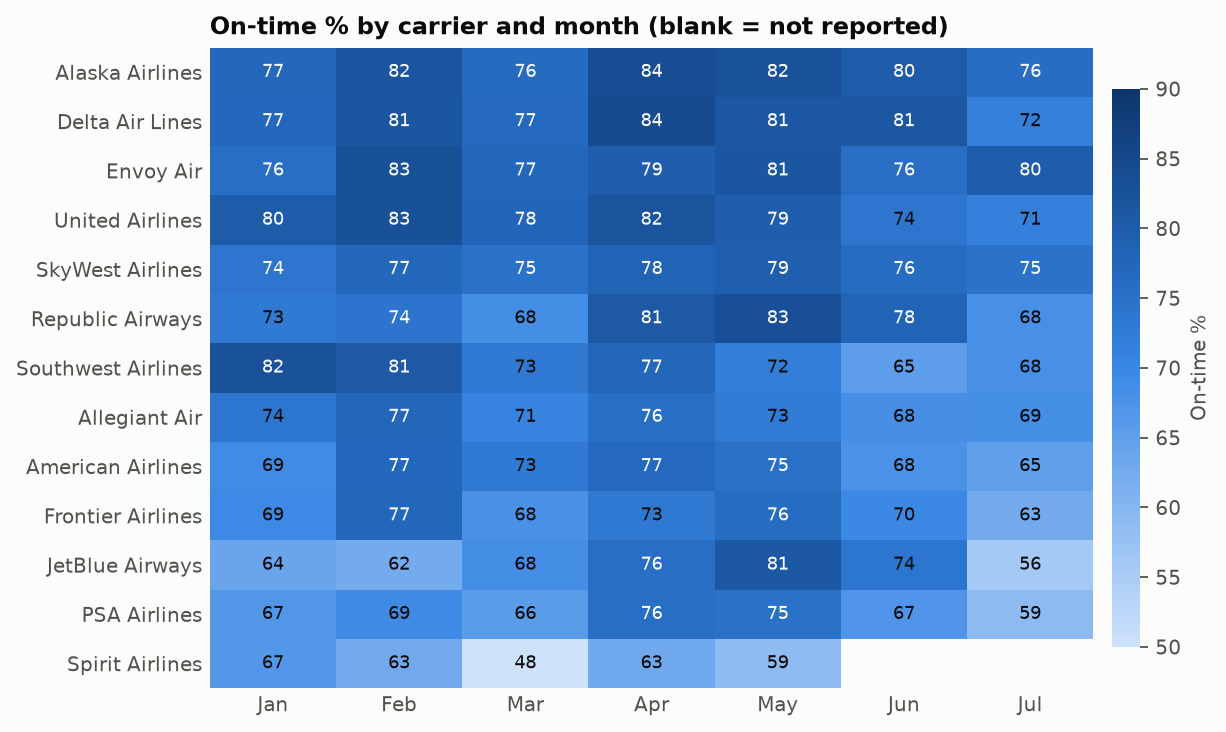
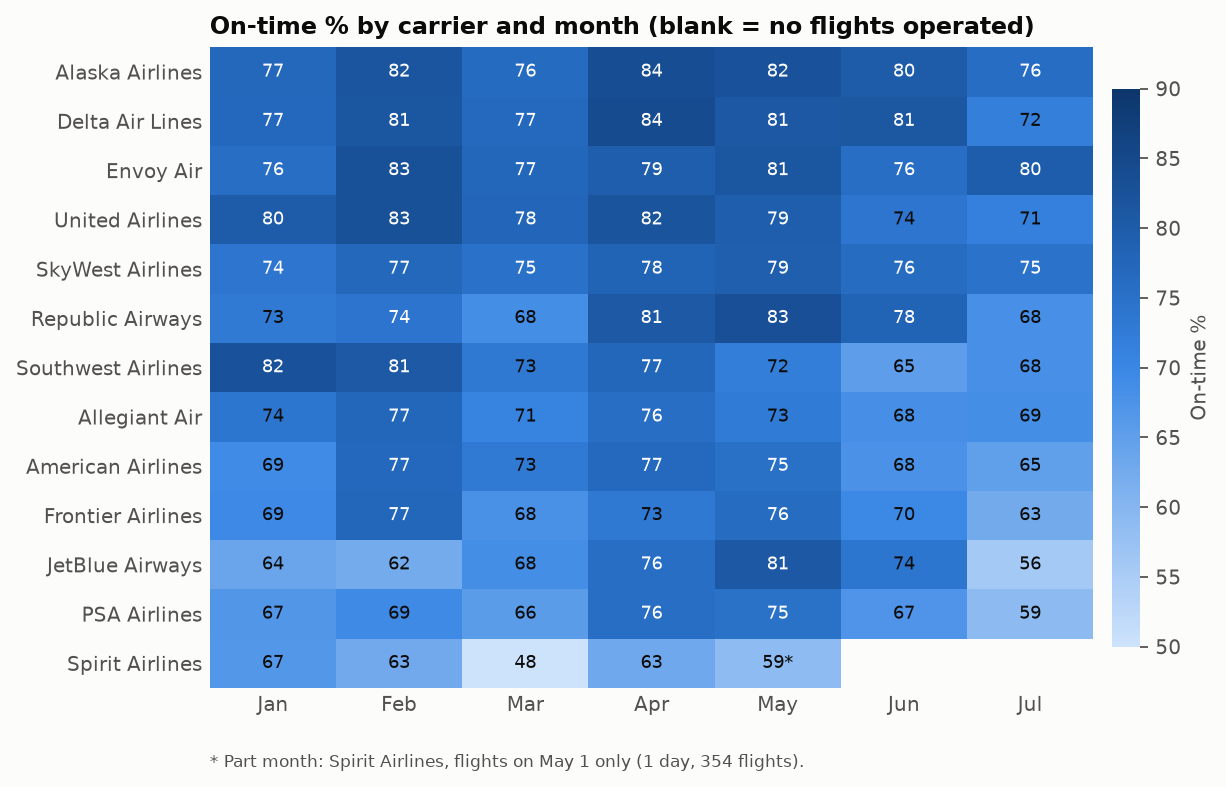
Mark part-month cells in the carrier heatmap
Blank cells now read "no flights operated". A carrier-month with flights
on fewer than half the month's days gets an asterisk and a footnote:
Spirit Airlines' May figure covers May 1 only, because Spirit ceased
operations on May 2, 2026. The month table now records days with
flights and the first and last flight date.

diff --git a/flightpipe/insights.py b/flightpipe/insights.py
@@ -90,6 +90,11 @@ class Insights:
         t.to_csv(self.tables / "on_time_by_carrier_month.csv", index=False)
         m = t.pivot(index="carrier_name", columns="month", values="on_time_pct")
         m = m.loc[m.mean(axis=1).sort_values(ascending=False).index]
+        # A carrier-month covering under half the month's days (e.g. an airline that stopped
+        # flying) is marked with * so it isn't read as a full month.
+        days_in_month = t.groupby("month").days_with_flights.transform("max")
+        part = t[t.days_with_flights < 0.5 * days_in_month]
+        partial = {(r.carrier_name, r.month) for r in part.itertuples()}
         fig, ax = plt.subplots(figsize=(7.5, 5.2))
         im = ax.imshow(m.values, cmap=LinearSegmentedColormap.from_list("blues", SEQ_BLUES), aspect="auto", vmin=50, vmax=90)
         ax.set_xticks(range(m.shape[1]), [MONTHS[c] for c in m.columns])
@@ -98,14 +103,24 @@ class Insights:
             for j in range(m.shape[1]):
                 v = m.values[i, j]
                 if not math.isnan(v):
-                    ax.text(j, i, f"{v:.0f}", ha="center", va="center", fontsize=8, color="white" if v >= 74 else INK)
+                    star = "*" if (m.index[i], m.columns[j]) in partial else ""
+                    ax.text(j, i, f"{v:.0f}{star}", ha="center", va="center", fontsize=8,
+                            color="white" if v >= 74 else INK)
         for s in ax.spines.values():
             s.set_visible(False)
         ax.tick_params(length=0)
         cb = fig.colorbar(im, ax=ax, fraction=0.03, pad=0.02)
         cb.outline.set_visible(False)
         cb.set_label("On-time %", color=INK_2)
-        ax.set_title("On-time % by carrier and month (blank = not reported)", loc="left")
+        ax.set_title("On-time % by carrier and month (blank = no flights operated)", loc="left")
+        if len(part):
+            def span(r):
+                d0, d1 = pd.Timestamp(r.first_date), pd.Timestamp(r.last_date)
+                return f"{d0:%b} {d0.day}" + ("" if d0 == d1 else f" to {d1.day}")
+            notes = "; ".join(f"{r.carrier_name}, flights on {span(r)} only "
+                              f"({r.days_with_flights} day{'s' if r.days_with_flights > 1 else ''}, "
+                              f"{r.scheduled_flights:,} flights)" for r in part.itertuples())
+            fig.text(0.125, 0.015, f"* Part month: {notes}.", fontsize=7.5, color=INK_2, ha="left")
         self.save(fig, "02_on_time_heatmap.png")
         return t
 

diff --git a/outputs/run_report.md b/outputs/run_report.md
@@ -1,6 +1,6 @@
-# Run report: 20261107T190137Z
+# Run report: 20261107T191628Z
 
-Status: **success**. Started 2026-11-07 19:01 UTC, 226 seconds.
+Status: **success**. Started 2026-11-07 19:16 UTC, 93 seconds.
 
 ## 1. Load
 
@@ -8,13 +8,13 @@ Status: **success**. Started 2026-11-07 19:01 UTC, 226 seconds.
 
 | File | Period | Rows inserted | Duplicates skipped | This run |
 |---|---|---:|---:|---|
-| T_ONTIME_REPORTING_Jan.csv | 2026-01 | 544,003 | 0 | loaded |
-| T_ONTIME_REPORTING_Feb.csv | 2026-02 | 515,037 | 0 | loaded |
-| T_ONTIME_REPORTING_Mar.csv | 2026-03 | 612,102 | 0 | loaded |
-| T_ONTIME_REPORTING_Apr.csv | 2026-04 | 597,919 | 0 | loaded |
-| T_ONTIME_REPORTING_May.csv | 2026-05 | 611,734 | 1 | loaded |
-| T_ONTIME_REPORTING_Jun.csv | 2026-06 | 607,577 | 0 | loaded |
-| T_ONTIME_REPORTING_Jul.csv | 2026-07 | 631,970 | 0 | loaded |
+| T_ONTIME_REPORTING_Jan.csv | 2026-01 | 544,003 | 0 | skipped |
+| T_ONTIME_REPORTING_Feb.csv | 2026-02 | 515,037 | 0 | skipped |
+| T_ONTIME_REPORTING_Mar.csv | 2026-03 | 612,102 | 0 | skipped |
+| T_ONTIME_REPORTING_Apr.csv | 2026-04 | 597,919 | 0 | skipped |
+| T_ONTIME_REPORTING_May.csv | 2026-05 | 611,734 | 1 | skipped |
+| T_ONTIME_REPORTING_Jun.csv | 2026-06 | 607,577 | 0 | skipped |
+| T_ONTIME_REPORTING_Jul.csv | 2026-07 | 631,970 | 0 | skipped |
 
 ## 2. Data-quality checks
 

diff --git a/README.md b/README.md
@@ -243,7 +243,9 @@ every push (`.github/workflows/ci.yml`).
   therefore an upper bound on delay within an airline's control.
 - **The carrier-pair test** credits each flight to its origin airport, controls only for airport
   and month, and treats flights as independent, so its intervals are somewhat optimistic.
-- **Spirit Airlines** has no reported flights for June and July 2026.
+- **Spirit Airlines** stopped flying on May 2, 2026, when it ceased operations, so it has no
+  flights in June or July. Its May figure covers May 1 only (354 flights), and the heatmap marks
+  that square with an asterisk.
 
 ## Data and licence
 
